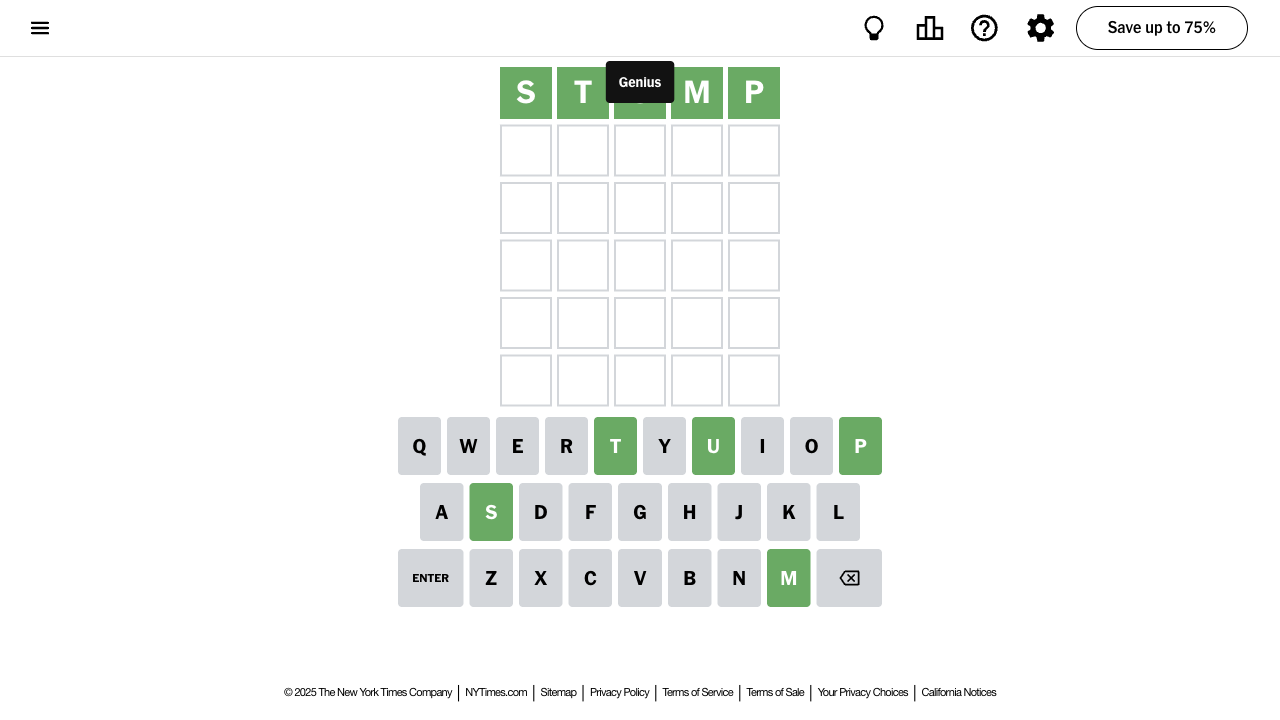
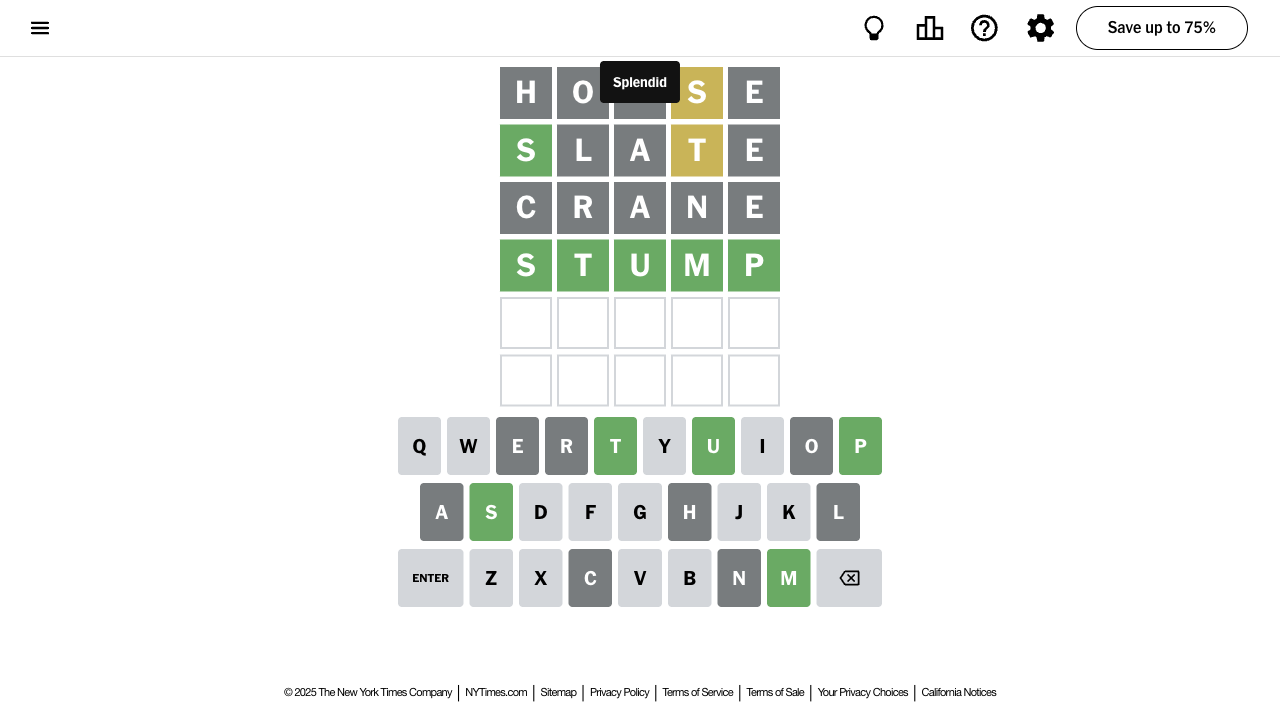
retry until game ends

diff --git a/main.py b/main.py
@@ -1,7 +1,10 @@
 # main.py
+import random
 from playwright.sync_api import sync_playwright
 import time
 
+# Global variable to track available words
+available_words = ["crane", "slate", "xxxxx", "horse", "stump", "asdfg"]
 
 def highlight_and_click(page, selector, highlight_duration=1000, wait_before_click=1000):
     """Highlight an element and click it."""
@@ -51,7 +54,7 @@ def wait_and_click(page, selector, description=None, highlight=True, timeout=500
     """Wait for a selector and click it, optionally highlighting."""
     if wait_for_selector_safe(page, selector, timeout=timeout, description=description):
         if highlight:
-            highlight_and_click(page, selector)
+            highlight_and_click(page, selector, highlight_duration=100, wait_before_click=100)
         else:
             element = page.query_selector(selector)
             if element:
@@ -168,10 +171,17 @@ def is_game_over(page):
         except:
             return None
 
-def guess_word(page, context) -> str:
-    """Guess a word and return the result."""
-    # hook up to LLM here
-    return "stump"
+def guess_word(page, context, available_words) -> tuple[str, list]:
+    """Guess a word and return the result along with updated available words."""
+    if not available_words:
+        print("No more words available! Resetting word pool...")
+        available_words = ["humps","crane", "slate", "xxxxx", "horse", "stump", "asdfg"]
+    
+    # Sample without replacement
+    word = random.choice(available_words)
+    available_words.remove(word)
+    
+    return word, available_words
 
 def run():
     with sync_playwright() as p:
@@ -193,47 +203,71 @@ def run():
         wait_for_selector_safe(page, 'div[class*="Tile-module_tile"]', timeout=10000, description="Game board")
         print("Board loaded.")
         take_screenshot(page, "wordle_board3.png", description="Game board loaded")
-        context = "You are a helpful assistant that plays the wordle game. Here is the past history of the game: Guess the next word, return only the word itself, and nothing else. You should return a single 5-letter word."
-        word = guess_word(page, context)
-        print(f"Guessing word: {word}")
-        click_word(page, word)
-        page.wait_for_timeout(2500)  # Let tiles animate
-        take_screenshot(page, "wordle_after_guess.png", description="After first guess")
         
-        # Read the result of the guess
-        print("\nReading guess result...")
-        result = read_guess_result(page, row_index=0)
-        print(f"Guess result: {result}")
-
-        # Check if we need to clear and retry (tbd state)
-        if any(tile_result == 'tbd' for _, tile_result in result):
-            print("Word not in dictionary or not submitted properly. Clearing and retrying...")
-            clear_word(page)
-            # Try a different word
-            word = "slate"  # Fallback word
-            print(f"Retrying with word: {word}")
+        # Initialize word pool
+        available_words = ["humps", "crane", "slate", "xxxxx", "horse", "stump", "asdfg"]
+        
+        # Game loop - continue guessing until game ends
+        game_won = False
+        game_lost = False
+        guess_count = 0
+        max_guesses = 6
+        
+        while not game_won and not game_lost and guess_count < max_guesses:
+            guess_count += 1
+            print(f"\n--- Round {guess_count} ---")
+            
+            context = "You are a helpful assistant that plays the wordle game. Here is the past history of the game: Guess the next word, return only the word itself, and nothing else. You should return a single 5-letter word."
+            word, available_words = guess_word(page, context, available_words)
+            print(f"Guessing word: {word}")
             click_word(page, word)
             page.wait_for_timeout(2500)  # Let tiles animate
-            take_screenshot(page, "wordle_after_retry.png", description="After retry guess")
-            
-            # Read the result again
-            print("\nReading retry guess result...")
-            result = read_guess_result(page, row_index=0)
-            print(f"Retry guess result: {result}")
+            take_screenshot(page, f"wordle_round_{guess_count}.png", description=f"After round {guess_count} guess")
 
-        # Check game state
-        if is_game_won(result):
-            print("🎉 Congratulations! You've won the game!")
-            winning_word = ''.join([letter for letter, _ in result])
-            print(f"The word was: {winning_word.upper()}")
-            take_screenshot(page, "wordle_win.png", description="Game won!")
-        else:
-            game_status = is_game_over(page)
-            if game_status == 'lost':
-                print("😔 Game over! You've lost the game.")
-                take_screenshot(page, "wordle_loss.png", description="Game lost")
+            # Read the result of the guess
+            print("\nReading guess result...")
+            result = read_guess_result(page, row_index=guess_count-1)
+            print(f"Guess result: {result}")
+
+            # Check if we need to clear and retry (tbd state)
+            while any(tile_result == 'tbd' for _, tile_result in result):
+                print("Word not in dictionary or not submitted properly. Clearing and retrying...")
+                clear_word(page)
+                # Try a different word
+                word, available_words = guess_word(page, context, available_words)
+                print(f"Retrying with word: {word}")
+                click_word(page, word)
+                page.wait_for_timeout(2500)  # Let tiles animate
+                take_screenshot(page, f"wordle_round_{guess_count}_retry.png", description=f"After round {guess_count} retry")
+                
+                # Read the result again
+                print("\nReading retry guess result...")
+                result = read_guess_result(page, row_index=guess_count-1)
+                print(f"Retry guess result: {result}")
+
+            # Check game state
+            if is_game_won(result):
+                game_won = True
+                print("Congratulations! You've won the game!")
+                winning_word = ''.join([letter for letter, _ in result])
+                print(f"The word was: {winning_word.upper()}")
+                take_screenshot(page, "wordle_win.png", description="Game won!")
             else:
-                print("The game is still ongoing.")
+                game_status = is_game_over(page)
+                if game_status == 'lost':
+                    game_lost = True
+                    print("Game over! You've lost the game.")
+                    take_screenshot(page, "wordle_loss.png", description="Game lost")
+                else:
+                    print("The game is still ongoing.")
+
+        # Final game summary
+        if game_won:
+            print(f"Game won in {guess_count} guesses!")
+        elif game_lost:
+            print(f"Game lost after {guess_count} guesses.")
+        else:
+            print(f"Game ended after {guess_count} guesses (max reached).")
 
         input("Press Enter to exit...")
         browser.close()
